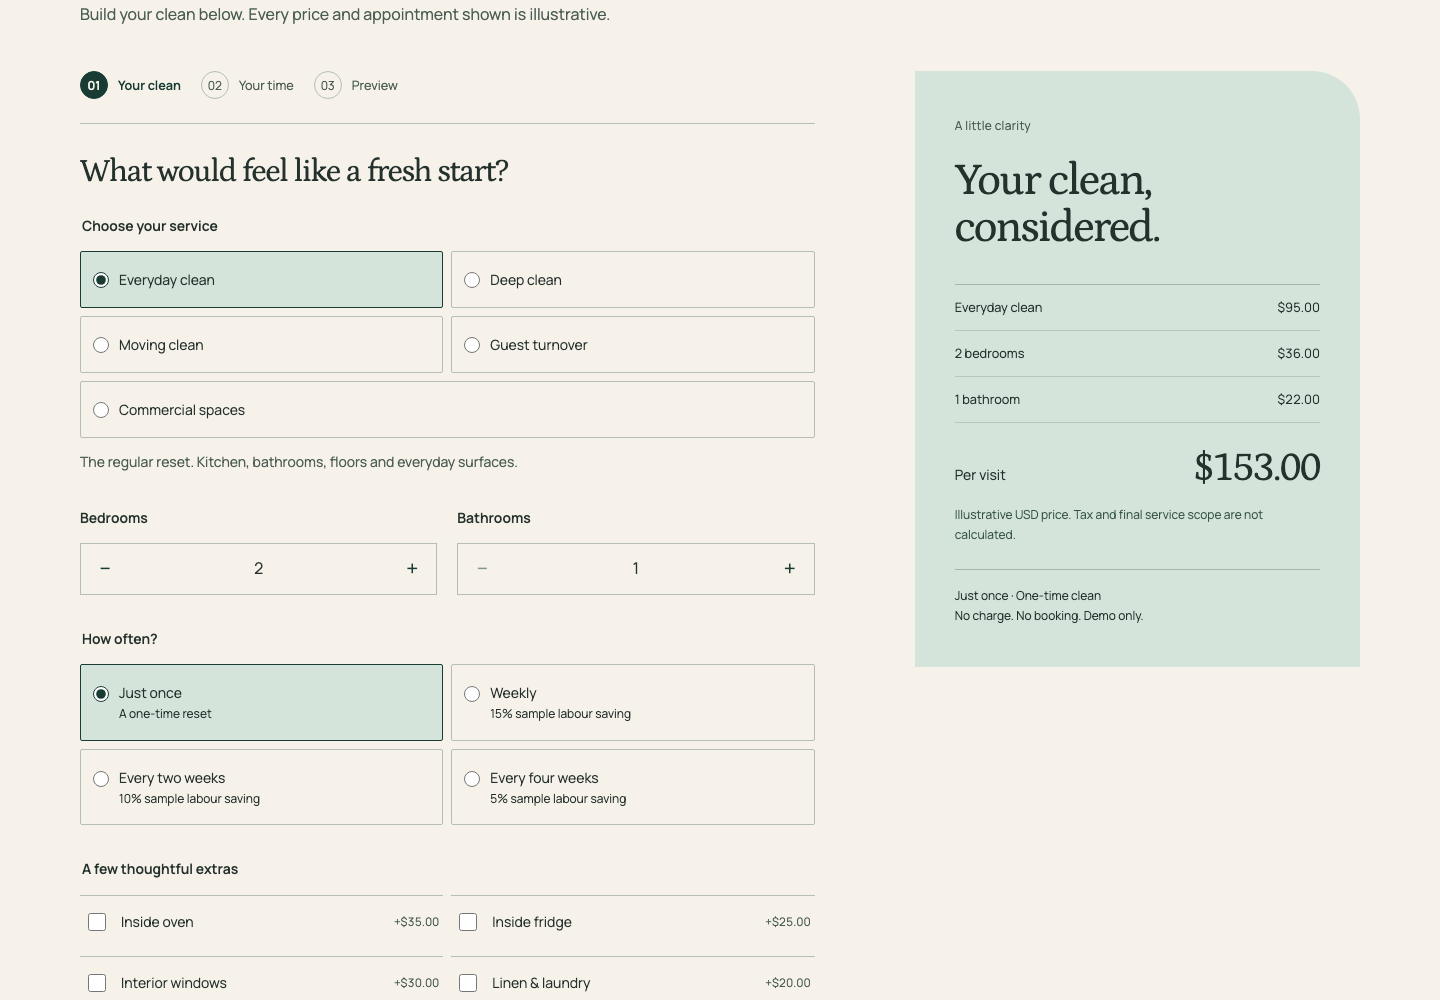
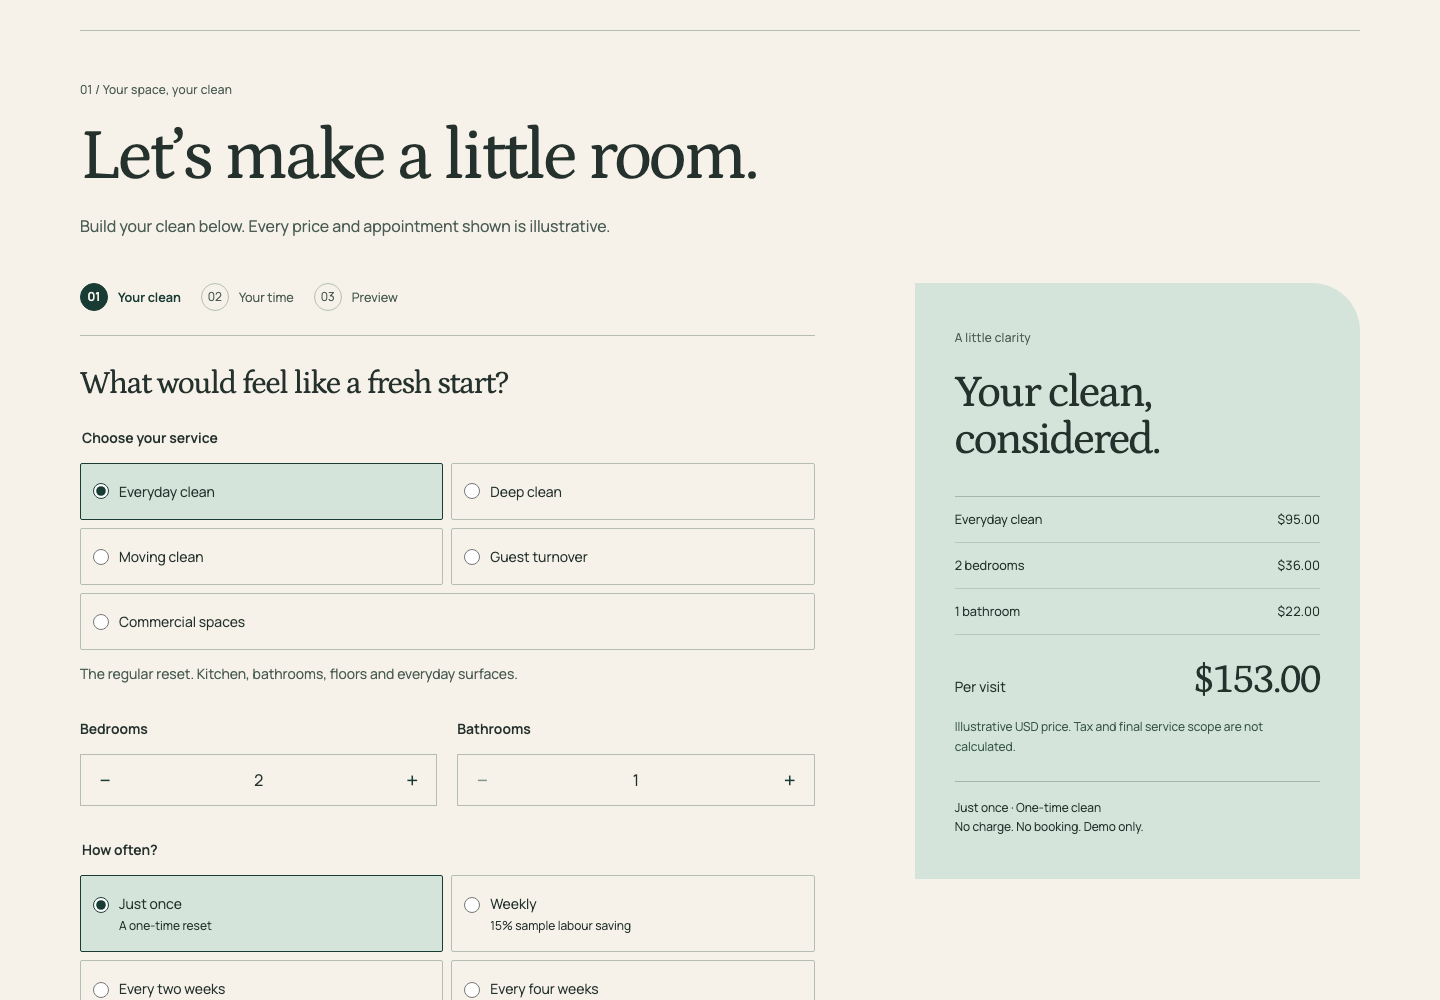
Reflect configurator-first page sequence and updated screenshots

diff --git a/README.md b/README.md
@@ -10,7 +10,7 @@ An original, interactive cleaning-service concept by [Love Yours Media](https://
 ## The idea
 Cleaning-service websites often ask visitors to commit before they understand the price or scope. Stillwell makes the service tangible: choose a clean, adjust the property, add the details that matter and see an itemised illustrative estimate before exploring a booking.
 
-A warm, architectural composition pairs Petrona typography with Manrope, forest green, ivory and sage. The original design uses a considered editorial rhythm rather than a generic feature-card template. The responsive estimator keeps the sample price close to the controls on mobile.
+A warm, architectural composition pairs Petrona typography with Manrope, forest green, ivory and sage. The original design uses a considered editorial rhythm rather than a generic feature-card template. The configurator follows immediately after the hero, before service and approach sections. The responsive estimator keeps the sample price close to the controls on mobile.
 
 ## Explore the journey
 1. Everyday, deep, moving or guest-turnover clean.
